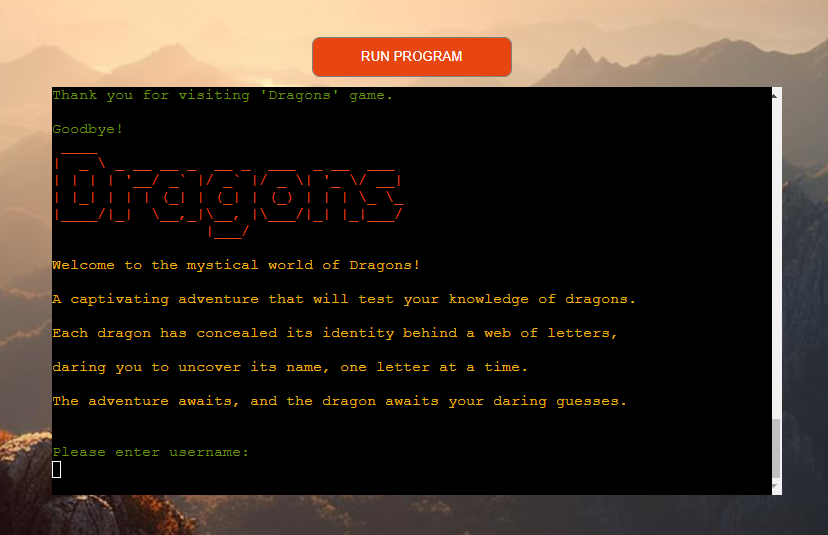
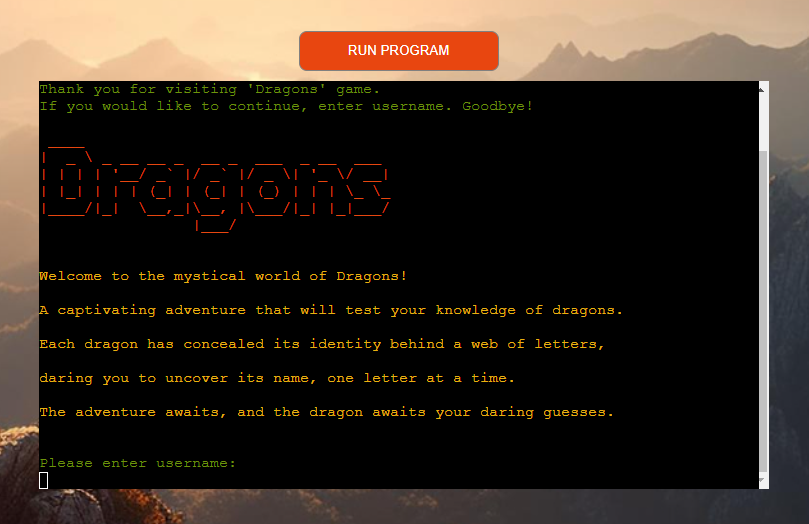
Add new Thank you screenshot and update readme

Changed region(s): [[0.0, 0.0611, 0.958, 1.0], [0.8344, 0.0611, 0.9889, 0.1221], [0.6799, 0.0611, 0.8344, 0.1221]]

diff --git a/README.md b/README.md
@@ -93,16 +93,22 @@ Shows a message after a guess is entered.
 
 ### **Game won / lost**
 
-At the end of the game either congrats user or expresses sympathy for loss and shows dragon name revealed/ not guessed and it's description with a ASCII dragon art.
+At the end, the game either congrats user or expresses sympathy for loss and shows dragon name revealed/ not guessed and it's description with a ASCII dragon art. Initially I wanted to clear the screen one game has finished before dragon name and description appears but decided to leave it as an option for user to be able to check guessing history.<br>
+
+I chose this cute and happy looking dragon ASCII art to show up when user wins the game, reminding me of a dragon from my childhood cartoon.
 ![Game won](docs/screenshots/game-won-ascii-art.png)
+
+This fire blowing dragon appears if user has lost the game. Be careful not to get burned to crisp!
 ![Game lost](docs/screenshots/game-lost-ascii-art.png)
 
 ### **Thank You message**
 
-Thanks user for visitng 'Dragons' game.
+Thanks user for visiting 'Dragons' game.
 ![Thank you message](docs/screenshots/thank-you-message.png)
 
 ### **Dragon ASCII art**
+
+Overall I got intrigued by ASCII art, amazingly never seen before.
 
 ![Dragon art game intro](docs/screenshots/game-intro-art.png)
 ![Dragon art game won](docs/screenshots/game-end-art.png)
